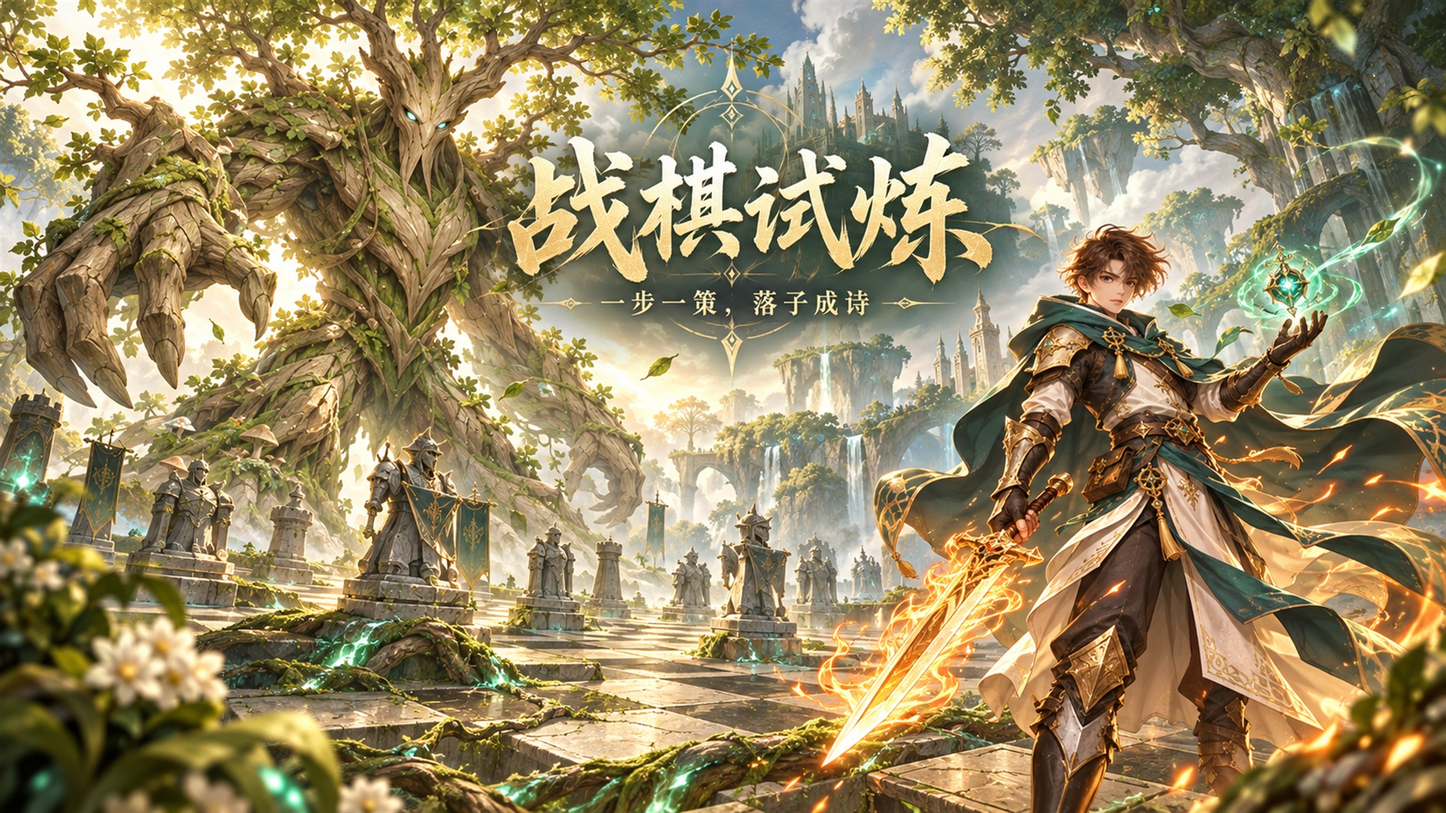
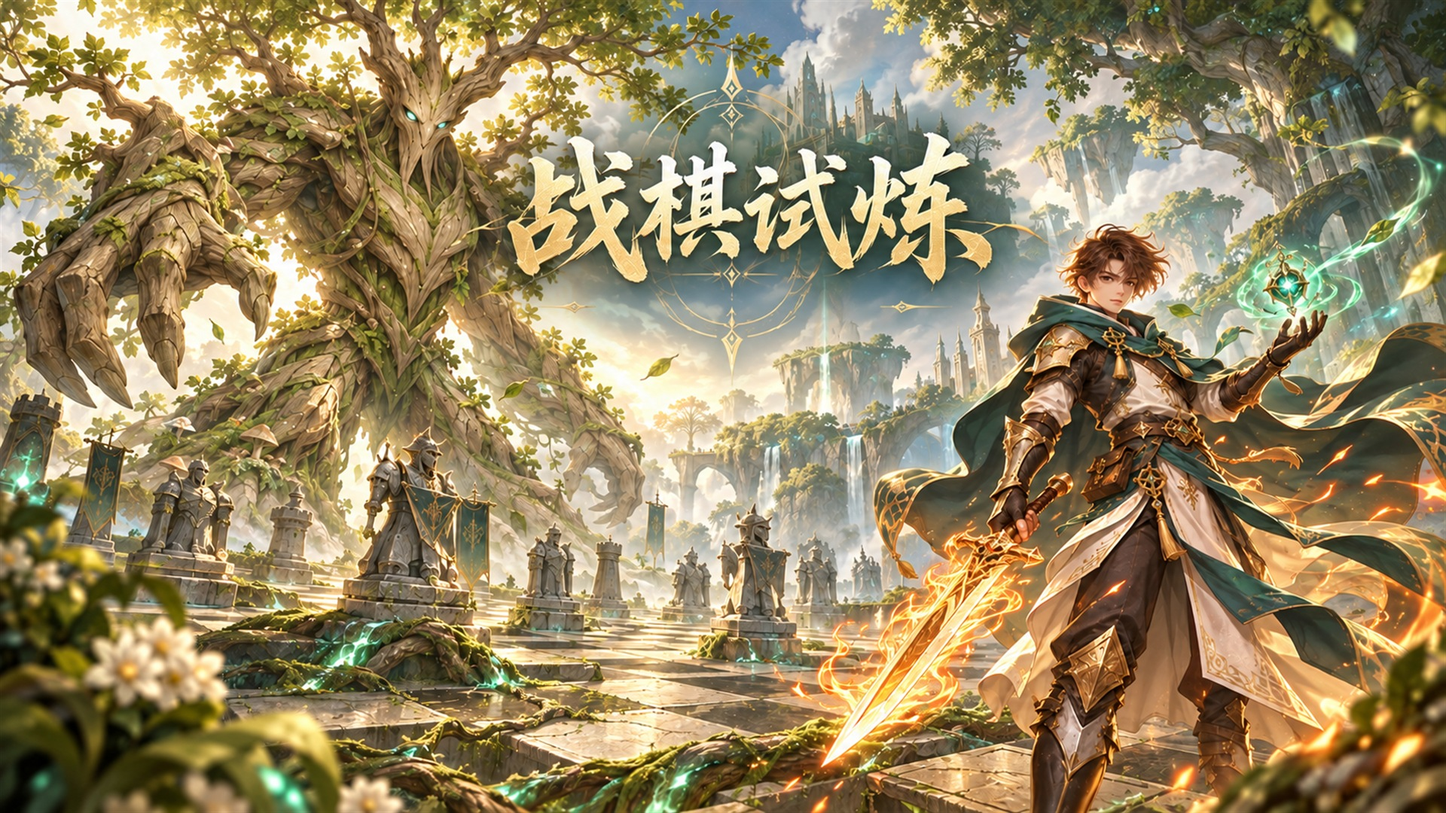
docs(taptap): record verified draft and publishing requirements

diff --git a/docs/taptap/release.md b/docs/taptap/release.md
@@ -33,7 +33,11 @@ node tests/browser-smoke.cjs --mobile --capture --store
 
 当前应用列表返回：`945715` 是未发布的非关卡游戏，分类 strategy。状态查询接口明确拒绝：该应用不符合“关卡或已通过备案的 H5 游戏”条件。这个响应不能单独证明具体哪项资质缺失，也不能把 API 失败解释成审核已通过。
 
-本次 `prepare_h5_upload` 还返回了工作目录错误：工具把相对路径解析在另一个项目《孤屿遗章》下，而当前项目位于 `E:\灵灰工作区\01_项目\战棋-diy卡牌测试版`。`check_environment` 已确认当前工具的 `WORKSPACE_ROOT` 是旧项目。应先将上传工具的 `WORKSPACE_ROOT` 绑定到当前仓库并重新加载工具，再对 `dist/taptap-h5` 重新预检；不能上传另一个项目、混用应用或用旧项目目录伪装本包。此次未执行上传。
+本次 `prepare_h5_upload` 还返回了工作目录错误：工具把相对路径解析在另一个项目《孤屿遗章》下，而当前项目位于 `E:\灵灰工作区\01_项目\战棋-diy卡牌测试版`。`check_environment` 已确认当前工具的 `WORKSPACE_ROOT` 是旧项目。应先将上传工具的 `WORKSPACE_ROOT` 绑定到当前仓库并重新加载工具，再对 `dist/taptap-h5` 重新预检；不能上传另一个项目、混用应用或用旧项目目录伪装本包。此次未上传游戏包。图片和资料草稿通过已登录后台处理。
+
+已进一步直接核对开发者后台：开发者认证已过审；当前草稿 `V-20260924` 的分发类型为 Android / iOS / Windows，均为“敬请期待”，没有确认启用的 H5 游玩类型。不能将本机的 H5 候选包当成这个草稿已经可玩的证明。
+
+后台仍显示隐私政策、防沉迷合规、AI 接入声明和适龄分级待上传。图文“必填完成度”与这些正式游玩资质分别计算，不能混为一谈。相应的技术事实和声明候选见 [隐私数据清单](privacy-facts.md) 与 [AI 辅助内容说明](ai-disclosure-draft.md)，不是已通过的合规材料。
 
 广告状态返回“未开通”，用户选择暂缓。此次候选包不接广告，不自动复查或复用其他应用的广告位。
 
@@ -55,4 +59,8 @@ H5 候选包的宿主授权和共享服务端选择已有模拟 SDK 浏览器回
 
 ## 本地商店素材
 
-`artifacts/taptap-release/media/` 保存横版封面、图标、方形宣传图和四张竖屏游戏截图候选。封面/图标使用 imagegen 按本游戏角色重新绘制，再导出平台要求尺寸；截图来自 390×844 CSS 视口、2 倍像素比的真实浏览器渲染，输出 780×1688，不是实体手机截图。原画留在 `artifacts/source-art/taptap/`，不装进游戏包。录像仍需在实际 TapTap 宿主设备上采集，不能用概念插画或模拟器录像冒充。
+`artifacts/taptap-release/media/` 保存横版封面、竖版封面、图标、透明 Logo、无文字的 3840×1240 游戏库背景、方形宣传图和四张竖屏游戏截图。封面/图标使用 imagegen 按本游戏角色重新绘制，再导出平台要求尺寸；宣传图和封面只保留游戏标题，去除额外标语。横/竖游戏封面按后台目标比例裁切并检查标题、角色安全区域。
+
+截图来自 390×844 CSS 视口、2 倍像素比的真实浏览器渲染，输出 780×1688，不是实体手机截图。原画留在 `artifacts/source-art/taptap/`，不装进游戏包。录像仍需在实际 TapTap 宿主设备上采集，不能用概念插画或模拟器录像冒充。
+
+已在本应用后台草稿保存游戏简介、首页推荐语、开发者的话，以及新图标、宣传图、四张截图和对应展示素材；未更改既有分发状态，未提交审核。专用图片接口缺少可用签名能力、资料更新接口拒绝非关卡应用，因此使用已登录后台完成图文准备；未索要或复制平台客户端密钥。

diff --git a/docs/taptap/privacy-facts.md b/docs/taptap/privacy-facts.md
@@ -1,0 +1,18 @@
+# 隐私政策编写所需的实际数据清单
+
+这是按当前源码梳理的技术事实，供开发者完善发布主体、联系渠道、处理期限和正式隐私政策；不是已上线的隐私政策，也不是合规认证结果。
+
+| 功能 | 当前处理方式 |
+| --- | --- |
+| 单人战役与设置 | 当前网页来源的 localStorage 保存战役进度、卡牌收集、声音设置等；Android 在应用私有 WebView 数据中保存，与其他浏览器/设备分开。 |
+| 自有服务器身份 | 首次联网由服务器创建随机访客 ID 和随机凭据；客户端保存凭据，服务器持久化凭据的 SHA-256 摘要以验证后续连接。 |
+| 昵称与段位 | 服务器保存昵称、积分、局数、胜负、操作类型计数及最近对局记录；这些名片信息会在联机界面展示。 |
+| 房间 | 房间码、标题、简介、玩家昵称及对局状态供其他棋手查询；对局快照在双方间传输，活动房间保存在服务进程内存中。 |
+| TapTap H5 宿主授权 | 仅调用宿主授权流程。临时 code 不落盘、不输出到日志、不发给当前访客房间服务器；未实现 TapTap 账号绑定或跨设备云存档。 |
+| 网络日志 | Web 代理和宿主可能按各自配置处理正常网络日志；正式政策需按实际部署确认，不能仅凭游戏源码断言“不记录 IP”。 |
+| 广告与统计 | 当前未接广告、第三方广告标识符或第三方统计 SDK。后续启用广告前需按实际 SDK、数据用途和平台要求更新政策与授权流程。 |
+| 设备权限 | 当前 Android 容器仅声明联网权限，不读取相册、联系人或位置；平台宿主自身的权限和政策独立。 |
+
+清除网页数据或卸载 Android 应用会清除本机进度/访客凭据；这不等于删除服务器上的段位记录。当前源码未提供玩家自助删除服务器记录的 API，也没有跨端账号恢复能力，不能在政策中承诺这些已经存在。
+
+正式上线前仍需补齐：可核实的运营主体与联系渠道、服务器实际托管及数据处理安排、记录保留和删除流程、适用的未成年人保护方案。昵称和房间简介当前仅做长度/控制字符限制及显示转义，尚无完整的敏感内容审核服务，不能宣称已完成平台要求的文本治理。

diff --git a/docs/taptap/ai-disclosure-draft.md b/docs/taptap/ai-disclosure-draft.md
@@ -1,0 +1,11 @@
+# AI 辅助内容说明草稿
+
+用途：供开发者核对 TapTap 后台“AI 接入声明”，不是已提交或已通过的声明。
+
+本项目在开发过程中使用 AI 辅助编程、玩法讨论、故事文案撰写及部分视觉素材制作。部分角色、场景、技能图标、商店封面与图标使用生成式图像工具辅助生成，开发者对最终采用版本进行筛选、适配与检查。
+
+游戏运行时不调用生成式 AI 服务，不包含 AI 对话、用户图片生成或向模型上传玩家输入的功能。人机对手使用本地规则与决策代码。
+
+音乐由本地程序生成器乐循环，操作与技能音效由本地 Web Audio 合成。特效纹理使用 Kenney CC0 素材，WebSocket 依赖 ws 遵守 MIT 许可；来源与许可见根目录 THIRD_PARTY_NOTICES.md。
+
+商店插画与实际游戏截图分开使用。发布时应如实勾选平台要求的 AI 内容声明；若平台要求证明材料，可提供当前源码、素材来源记录及选用的最终图片。发布主体、权利人声明和上传证明须由开发者本人核对，本文不代替权属证明或法律承诺。
